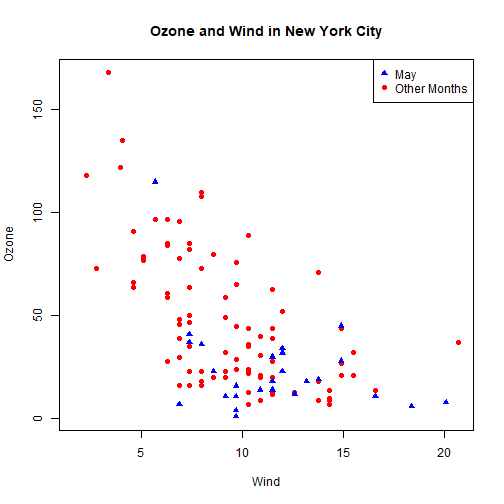
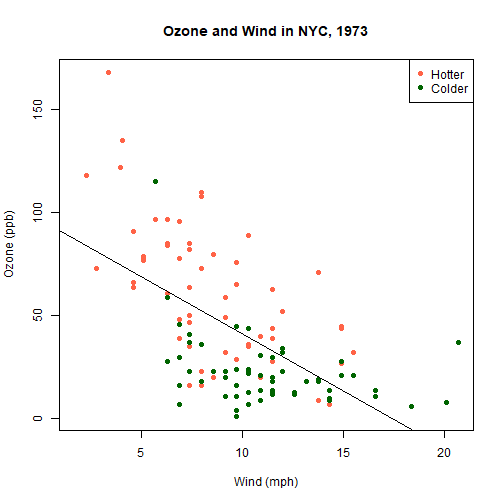
update lec 7

diff --git a/pstat10/lectures/Lec7.html b/pstat10/lectures/Lec7.html
@@ -4,7 +4,7 @@
     <title>Lecture 7: Base R Plots</title>
     <meta charset="utf-8" />
     <meta name="author" content="Robin Liu" />
-    <meta name="date" content="2022-06-11" />
+    <meta name="date" content="2022-06-30" />
     <script src="libs/header-attrs-2.14/header-attrs.js"></script>
     <link href="libs/remark-css-0.0.1/default.css" rel="stylesheet" />
     <link href="libs/remark-css-0.0.1/metropolis.css" rel="stylesheet" />
@@ -27,7 +27,7 @@ class: center, middle, inverse, title-slide
 ### UCSB
 ]
 .date[
-### 2022-06-11
+### 2022-06-30
 ]
 
 ---
@@ -99,23 +99,23 @@ plot(airquality$Wind, airquality$Ozone, main="Ozone and Wind in NYC, 1973",
 
 &lt;img src="Lec7_files/figure-html/unnamed-chunk-3-1.png" width="50%" height="50%" /&gt;
 ---
-# Simplifying with with
+# Adding a trendline
 
 ```r
-with(airquality,
-     plot(Wind, Ozone, main="Ozone and Wind in NYC, 1973",
-       xlab="Wind (mph)", ylab="Ozone (ppb)")
-)
+plot(airquality$Wind, airquality$Ozone, main="Ozone and Wind in NYC, 1973",
+     xlab="Wind (mph)", ylab="Ozone (ppb)")
+air_trend &lt;- lm(airquality$Ozone ~ airquality$Wind)
+abline(air_trend, col = "red")
 ```
 
 &lt;img src="Lec7_files/figure-html/unnamed-chunk-4-1.png" width="50%" height="50%" /&gt;
 ---
 # Your turn
-Create a scatter plot of Ozone vs. Solar Radiation.
+Create a scatter plot of Ozone vs. Solar Radiation with a trendline.
 Add a meaningful title and axis labels to the plot.
 
 ![](Lec7_files/figure-html/unnamed-chunk-5-1.png)&lt;!-- --&gt;
-<div class="countdown" id="timer_62a552c3" style="right:0;bottom:0;" data-warnwhen="0">
+<div class="countdown" id="timer_62bdd93f" style="right:0;bottom:0;" data-warnwhen="0">
 <code class="countdown-time"><span class="countdown-digits minutes">02</span><span class="countdown-digits colon">:</span><span class="countdown-digits seconds">00</span></code>
 </div>
 ---
@@ -169,6 +169,7 @@ class(y ~ x)
 ```
 ## [1] "formula"
 ```
+
 ---
 # Building plots
 It is common to first create a plot and then layer stuff on top.
@@ -246,43 +247,34 @@ abline(lmout, lty=2, lwd=2) # adds a line "fitting" the points
 ![:scale 75%](Lec7_files/col.png)
 ]
 ---
-# Building Plots
-It is common for complex plots to start with an *empty* plot
-and layer stuff on top.
+# Building plots
+We see a negative trend with wind and ozone.
+.pull-left[
 
 ```r
-with(airquality, plot(Wind, Ozone, main = "Ozone and Wind in New York City", type = "n"))
+plot(airquality$Wind, airquality$Ozone)
 ```
 
-&lt;img src="Lec7_files/figure-html/unnamed-chunk-20-1.png" width="50%" height="50%" /&gt;
+![](Lec7_files/figure-html/unnamed-chunk-20-1.png)&lt;!-- --&gt;
+]
 
+--
+
+.pull-right[
+A flat screen can only show two variables.
+
+unless...? 😳
+
+We can add another dimension of information by employing
+*shape* and *color*.
+]
 ---
-# Building Plots
+# Layering Plots Demo 1
 It is common for complex plots to start with an *empty* plot
 and layer stuff on top.
-
-```r
-with(airquality, plot(Wind, Ozone, main = "Ozone and Wind in New York City", type = "n"))
-with(filter(airquality, Month != 5), points(Wind, Ozone, col="red", pch=19))
-```
-
-&lt;img src="Lec7_files/figure-html/unnamed-chunk-21-1.png" width="50%" height="50%" /&gt;
+&lt;img src="Lec7_files/figure-html/unnamed-chunk-21-1.png" style="display: block; margin: auto;" /&gt;
 ---
-# Building Plots
-It is common for complex plots to start with an *empty* plot
-and layer stuff on top.
-
-```r
-with(airquality, plot(Wind, Ozone, main = "Ozone and Wind in New York City", type = "n"))
-with(filter(airquality, Month != 5), points(Wind, Ozone, col="red", pch=19))
-with(filter(airquality, Month == 5), points(Wind, Ozone, col="blue", pch=17))
-```
-
-&lt;img src="Lec7_files/figure-html/unnamed-chunk-22-1.png" width="50%" height="50%" /&gt;
----
-# Building Plots
-It is common for complex plots to start with an *empty* plot
-and layer stuff on top.
+# Layering Plots Demo 1
 
 ```r
 with(airquality, plot(Wind, Ozone, main = "Ozone and Wind in New York City", type = "n"))
@@ -292,7 +284,14 @@ legend("topright", pch = c(17, 19), col = c("blue", "red"),
        legend = c("May", "Other Months"))
 ```
 
-&lt;img src="Lec7_files/figure-html/unnamed-chunk-23-1.png" width="44%" height="44%" /&gt;
+![](Lec7_files/figure-html/unnamed-chunk-22-1.png)&lt;!-- --&gt;
+
+
+---
+# Layering Plots Demo 2
+How does *temperature* relate to ozone and wind?
+![](Lec7_files/figure-html/unnamed-chunk-23-1.png)&lt;!-- --&gt;
+
 ---
 
 # Plotting functions
@@ -349,7 +348,7 @@ Remember to check out `?par`.
 ![](Lec7_files/figure-html/unnamed-chunk-28-1.png)&lt;!-- --&gt;
 
 
-<div class="countdown" id="timer_62a54fbd" style="right:0;bottom:0;" data-warnwhen="0">
+<div class="countdown" id="timer_62bdd803" style="right:0;bottom:0;" data-warnwhen="0">
 <code class="countdown-time"><span class="countdown-digits minutes">06</span><span class="countdown-digits colon">:</span><span class="countdown-digits seconds">00</span></code>
 </div>
     </textarea>
